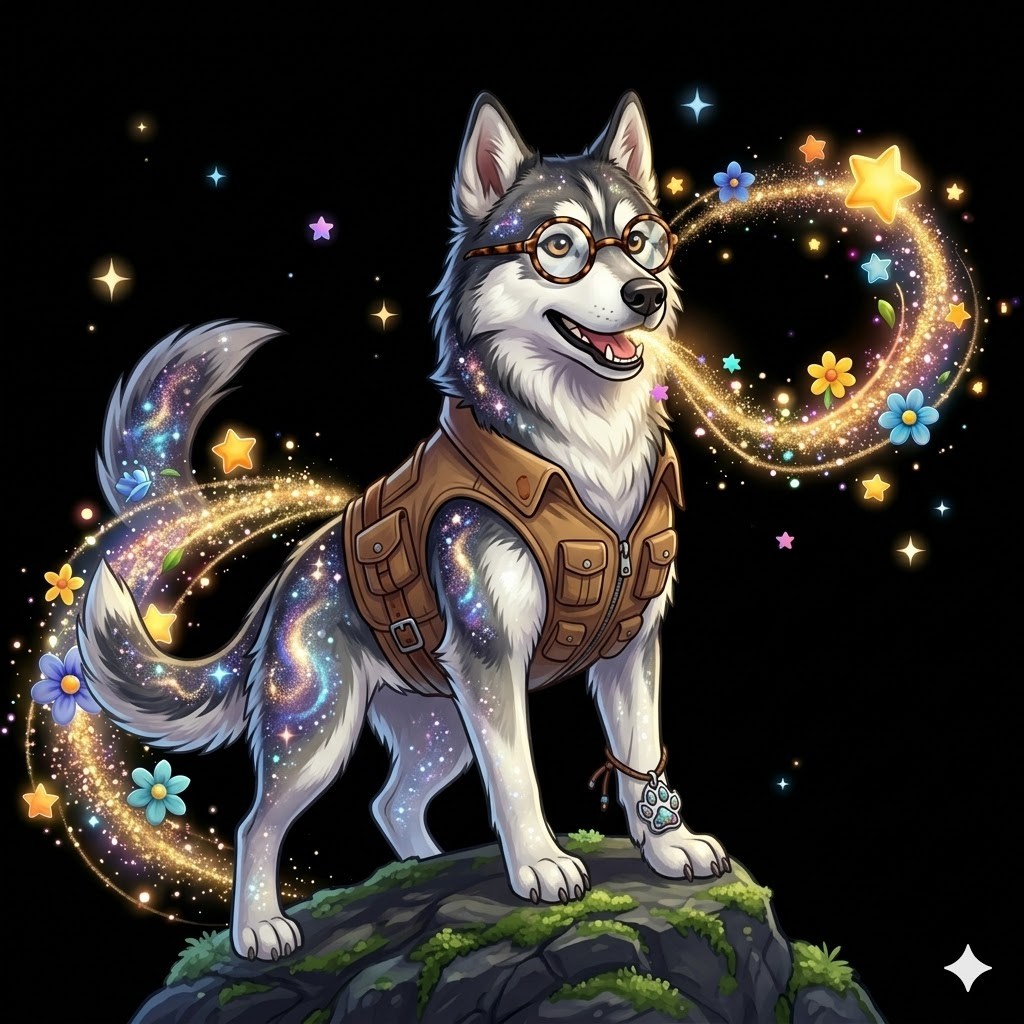
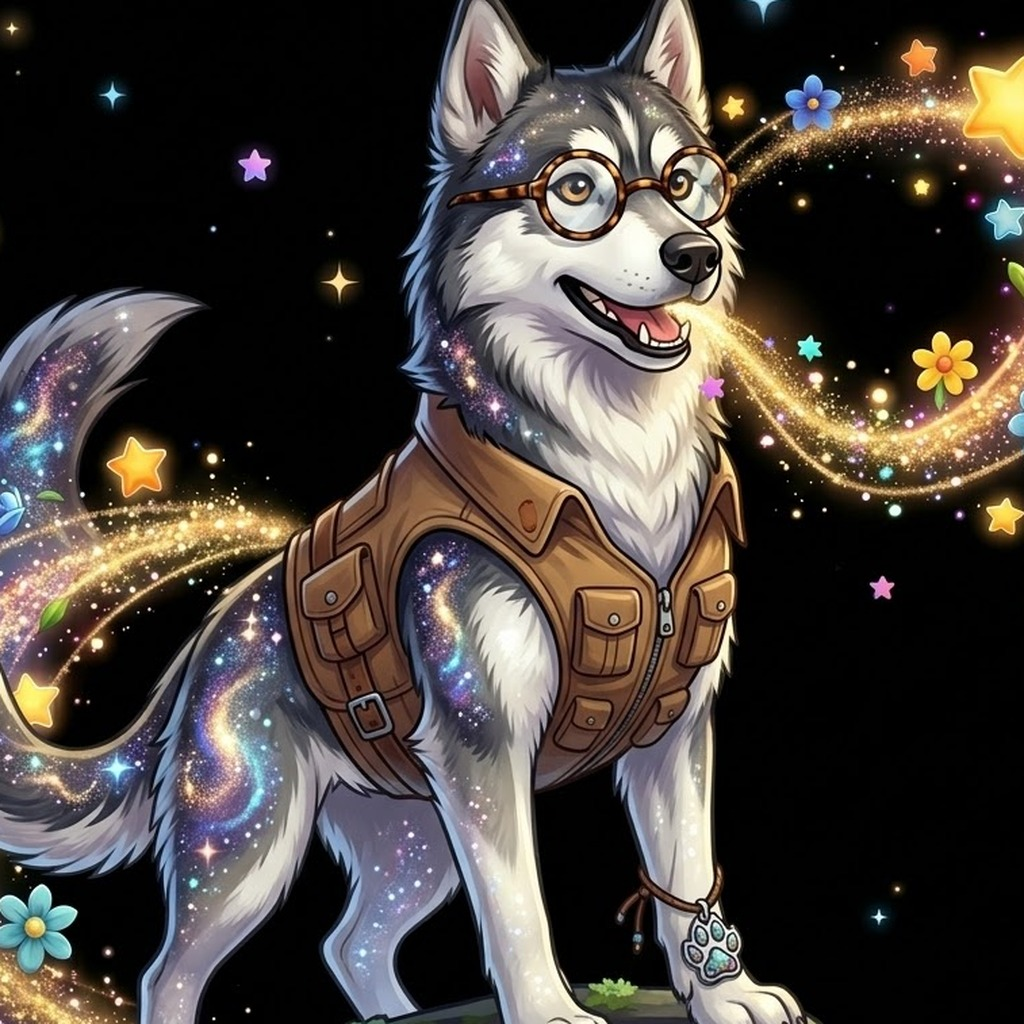
fix(companions): polish Adventurer 'Choose your companions' grid (#244)
- Reorder so Rockin' Robin sits on the bottom row (Atlas + Kodiak lead).
- Regenerate Nyx to match the set's warm golden-sparkle storybook style
  (was an off-style edgy 'merch sticker' look + portrait 1024x1536 that
  cover-cropped to her torso); new art is square 1024 and on-style.
- Retighten Atlas + Kodiak crops so all four figures sit at a similar
  scale instead of small/distant.
- Add reusable CompanionData.imageAlignment knob for off-centre art.

diff --git a/lib/widgets/hero_creator/companion_widgets.dart b/lib/widgets/hero_creator/companion_widgets.dart
@@ -150,6 +150,11 @@ class CompanionData {
   final String personality;
   final String? imagePathOverride;
   final Color? backgroundColor;
+
+  /// Crop anchor for the circular orb. Square source art (1024×1024) looks fine
+  /// centered; portrait/off-centre art needs a different anchor so BoxFit.cover
+  /// frames the face instead of the torso. Defaults to centre.
+  final Alignment imageAlignment;
   const CompanionData({
     required this.id,
     required this.name,
@@ -157,6 +162,7 @@ class CompanionData {
     this.personality = '',
     this.imagePathOverride,
     this.backgroundColor,
+    this.imageAlignment = Alignment.center,
   });
 
   String get imagePath =>
@@ -229,6 +235,9 @@ const explorerCompanions = [
   ),
 ];
 
+// Order = grid order (2 per row). Atlas + Kodiak (the two bespectacled
+// "thinker" companions) lead the top row; Nyx + Rockin' Robin fill the
+// bottom row, per Darcy's request to move Robin to the bottom.
 const adventurerCompanions = [
   CompanionData(
     id: 'atlas',
@@ -239,12 +248,12 @@ const adventurerCompanions = [
         'Atlas (Pattern Seer) is a blue-green scholar dragon with a compass medallion who knows every constellation. When the path is unclear he lifts his glasses and calculates. He admits when the map was wrong. Speaks in short verdicts — "Noted." "Risky." "Better." Catchphrases: "Look again." / "Follow the pattern."',
   ),
   CompanionData(
-    id: 'robin',
-    name: 'Rockin\' Robin',
-    tagline: 'Fierce loyalty. Zero chill.',
-    imagePathOverride: 'assets/images/companions/adventurer/robin.webp',
+    id: 'kodiak',
+    name: 'Kodiak',
+    tagline: 'Pack moves together. Never gives up on you.',
+    imagePathOverride: 'assets/images/companions/adventurer/kodiak.jpg',
     personality:
-        'Rockin\' Robin (Guardian) is overprotective and not remotely sorry about it. She scouts ahead of every step, physically bats away anything she decides is a threat — which is often — and is extremely loud when alarmed. Three sharp chirps: stop. One long note: safe. She has been wrong before and does not slow down. Her protectiveness is not performance. It is love at full volume. Catchphrases: "NO. Back. NOW." / "I handled it." / "(soft) You\'re okay. I\'ve got you."',
+        'Kodiak (Hope Engine) is a galaxy-furred husky who can read stardust like a map and smell storms three hours before they arrive. Runs ahead, checks back, positions himself on your left without being asked. Sniffs out the most trustworthy person in a room. Catchphrases: "One more step!" / "I\'ve got your left side."',
   ),
   CompanionData(
     id: 'nyx',
@@ -255,12 +264,12 @@ const adventurerCompanions = [
         'Nyx (Boundary Guardian) is a sleek black cat wrapped in cosmic purple energy who moves through shadows like smoke. She helps you say no, spot pressure, and choose the cleanest way out. When she trusts you enough to speak first, the information is always worth waiting for. Catchphrases: "No is complete." / "We leave—now."',
   ),
   CompanionData(
-    id: 'kodiak',
-    name: 'Kodiak',
-    tagline: 'Pack moves together. Never gives up on you.',
-    imagePathOverride: 'assets/images/companions/adventurer/kodiak.jpg',
+    id: 'robin',
+    name: 'Rockin\' Robin',
+    tagline: 'Fierce loyalty. Zero chill.',
+    imagePathOverride: 'assets/images/companions/adventurer/robin.webp',
     personality:
-        'Kodiak (Hope Engine) is a galaxy-furred husky who can read stardust like a map and smell storms three hours before they arrive. Runs ahead, checks back, positions himself on your left without being asked. Sniffs out the most trustworthy person in a room. Catchphrases: "One more step!" / "I\'ve got your left side."',
+        'Rockin\' Robin (Guardian) is overprotective and not remotely sorry about it. She scouts ahead of every step, physically bats away anything she decides is a threat — which is often — and is extremely loud when alarmed. Three sharp chirps: stop. One long note: safe. She has been wrong before and does not slow down. Her protectiveness is not performance. It is love at full volume. Catchphrases: "NO. Back. NOW." / "I handled it." / "(soft) You\'re okay. I\'ve got you."',
   ),
 ];
 
@@ -439,6 +448,7 @@ class CompanionImageGrid extends StatelessWidget {
           size: itemSize,
           imagePath: c.imagePath,
           backgroundColor: c.backgroundColor,
+          imageAlignment: c.imageAlignment,
           onTap: () {
             if (isSelected) {
               wizardData.companionNames.remove(c.name);
@@ -524,6 +534,7 @@ class _CompanionImageButton extends StatefulWidget {
   final double? size;
   final String? imagePath;
   final Color? backgroundColor;
+  final Alignment imageAlignment;
 
   const _CompanionImageButton({
     required this.id,
@@ -536,6 +547,7 @@ class _CompanionImageButton extends StatefulWidget {
     this.size,
     this.imagePath,
     this.backgroundColor,
+    this.imageAlignment = Alignment.center,
   });
 
   @override
@@ -627,6 +639,7 @@ class _CompanionImageButtonState extends State<_CompanionImageButton>
         width: size,
         height: size,
         fit: fit,
+        alignment: widget.imageAlignment,
         frameBuilder: (ctx, child, frame, _) =>
             frame == null ? SizedBox(width: size, height: size) : child,
         placeholder: Container(
